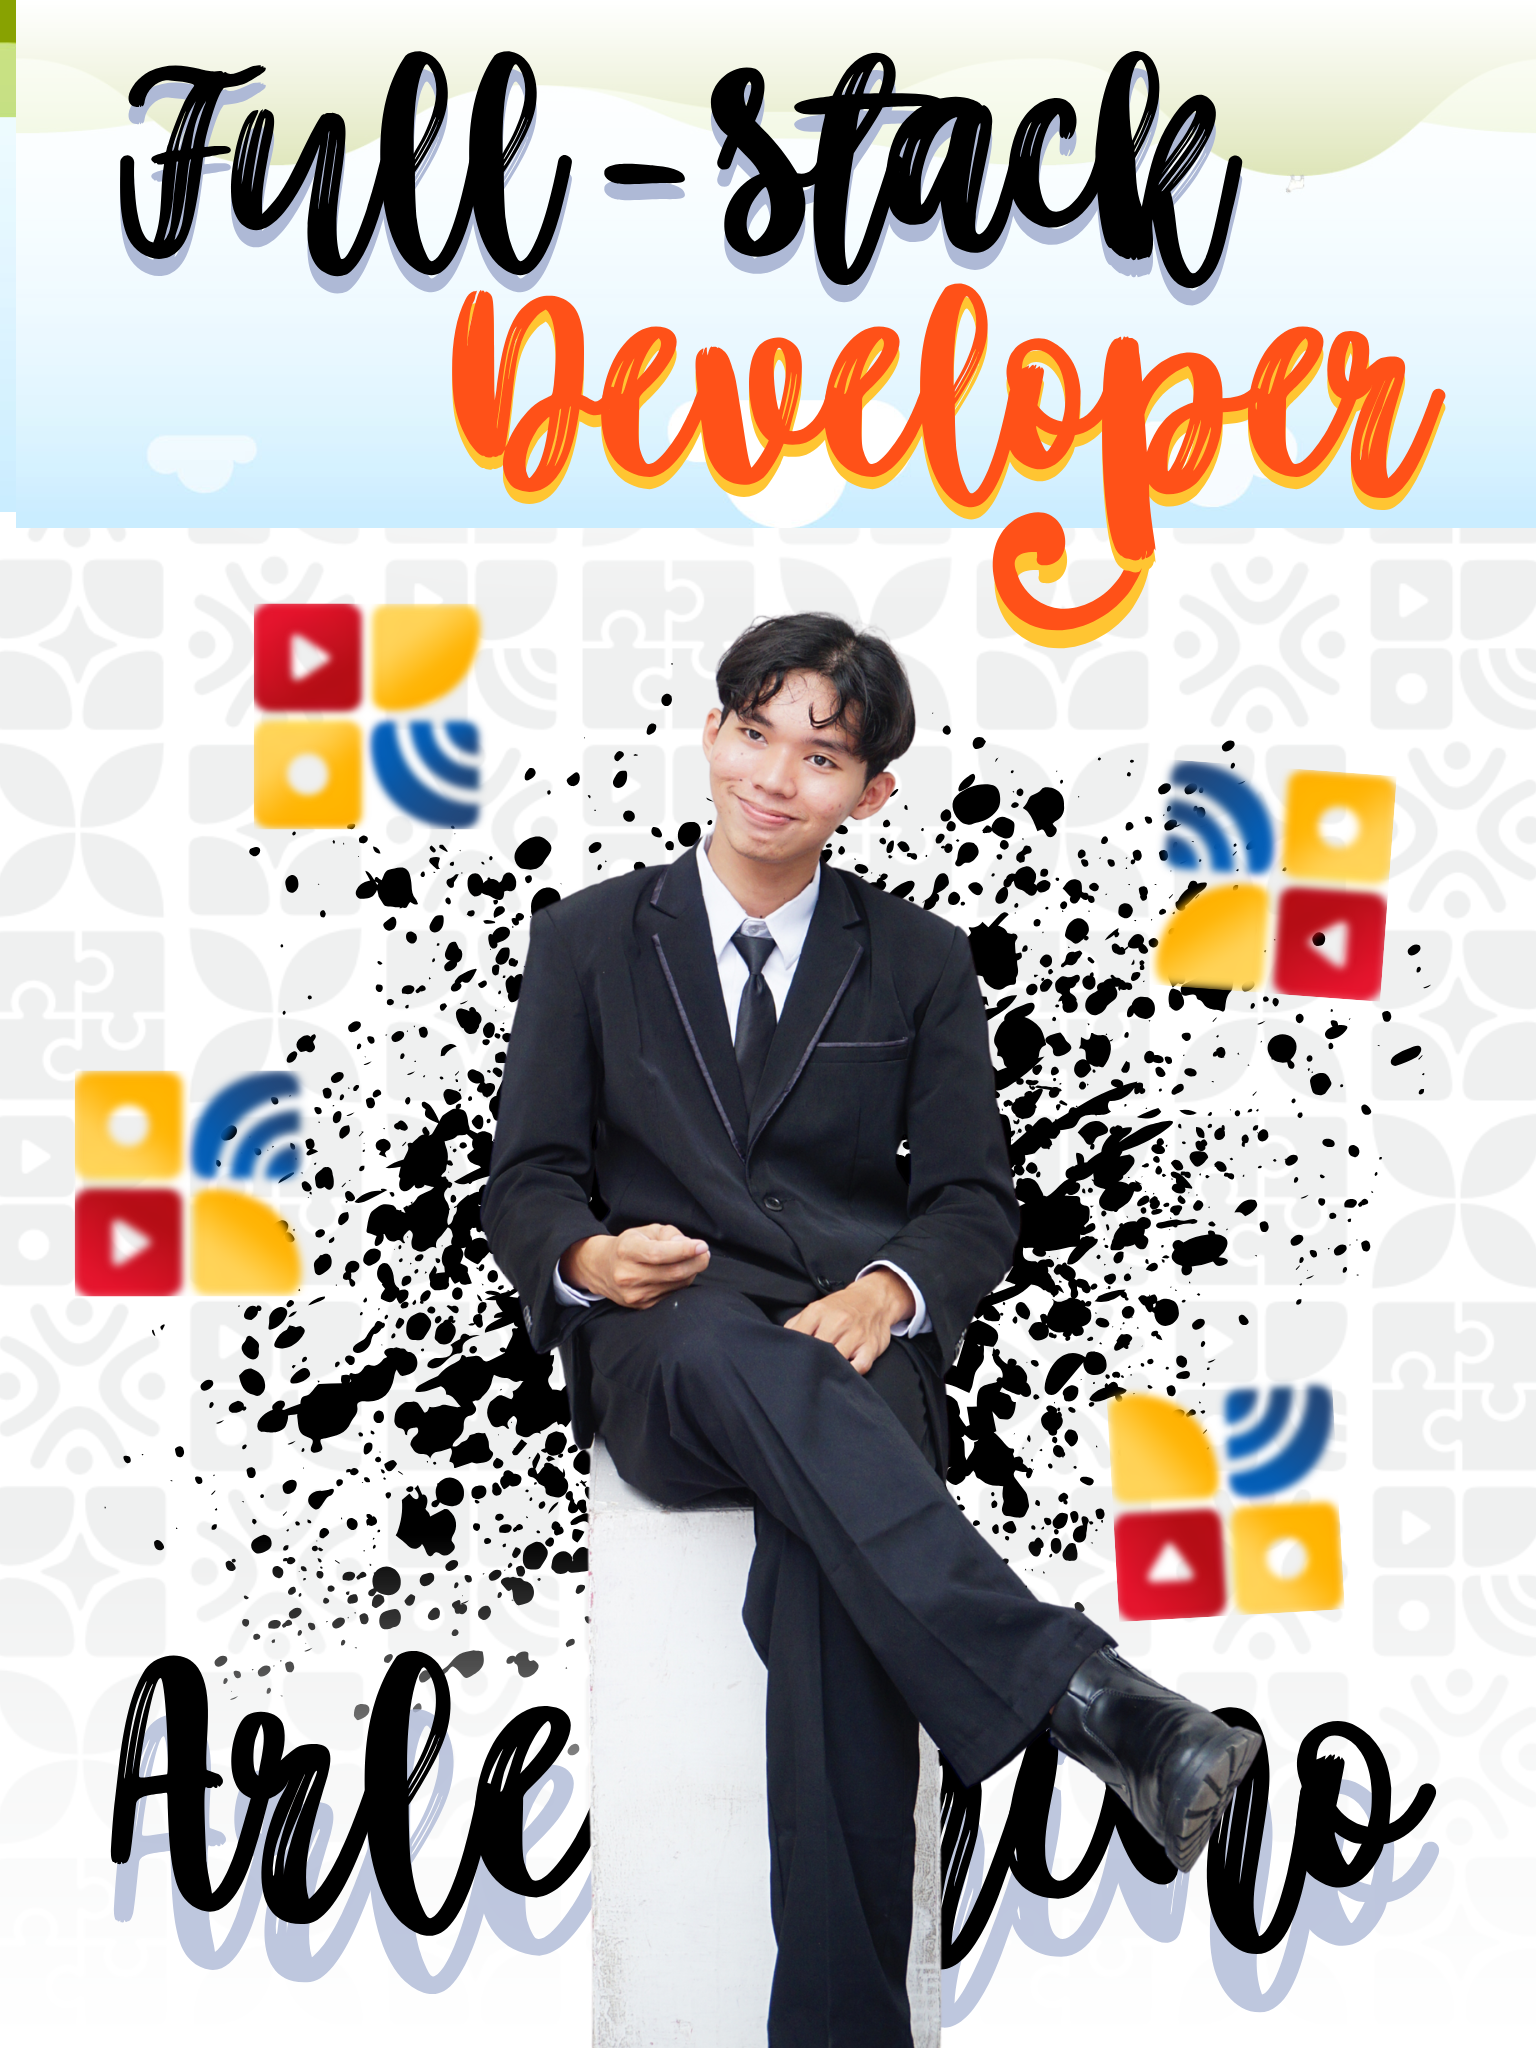
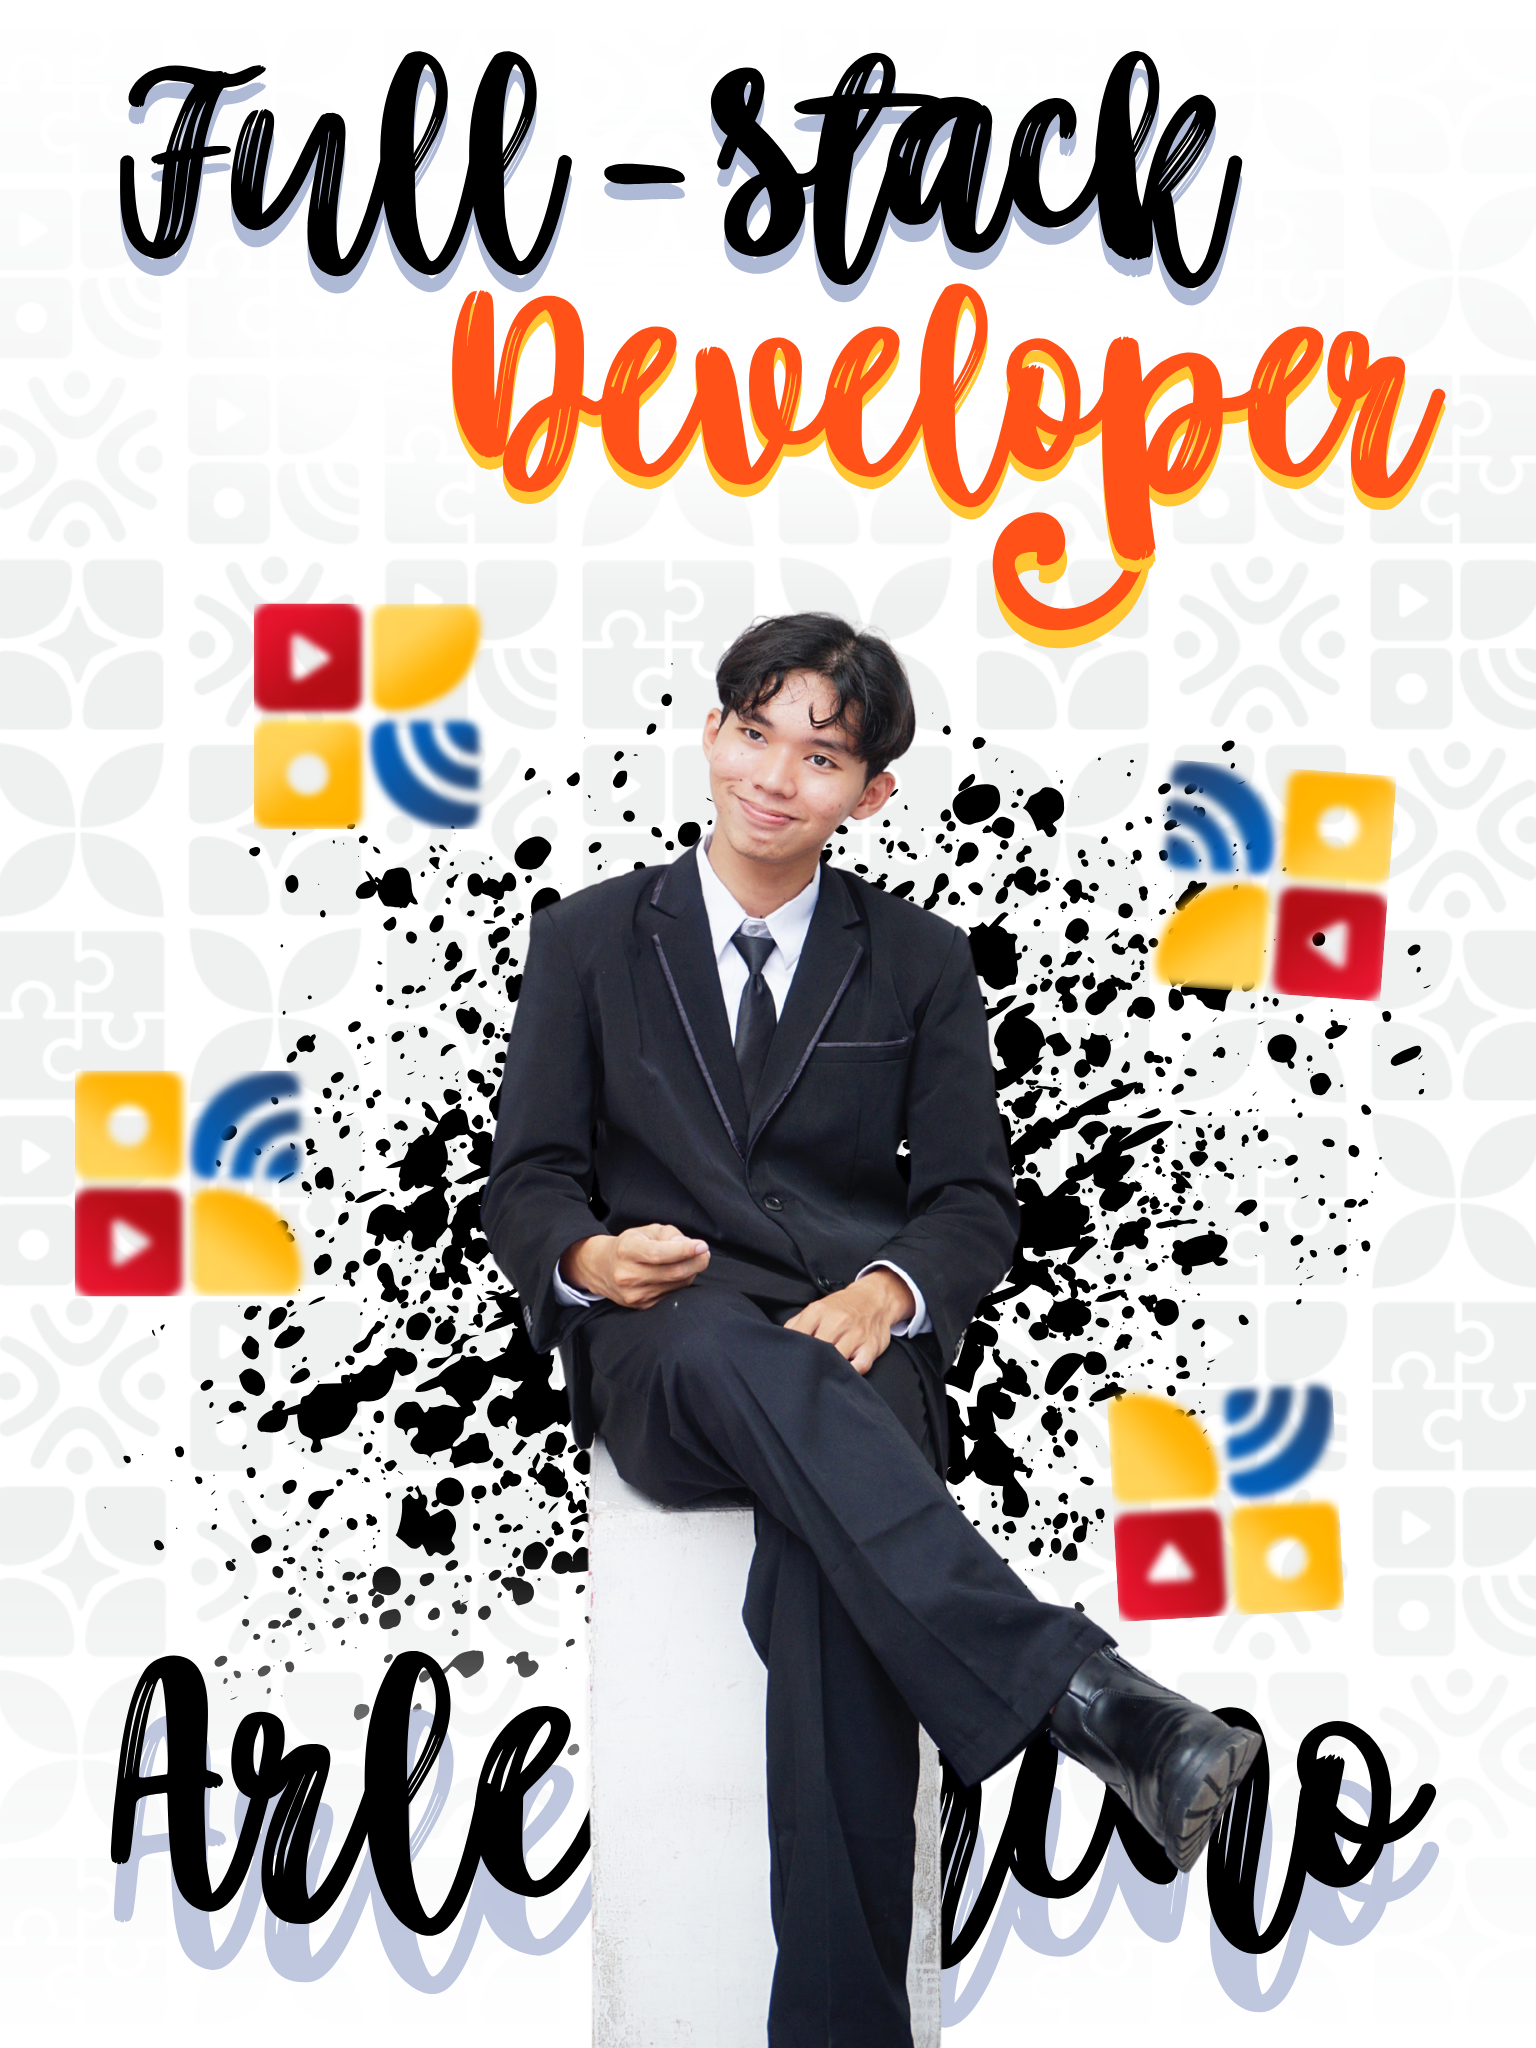
TES

diff --git a/style.css b/style.css
@@ -679,3 +679,114 @@ input:checked + .slider:before { transform: translateX(26px); }
         font-size: 2.5rem;
     }
 }
+
+/* --- SNEAK PEEK SECTION (Infinite Scroll) --- */
+.sneak-peek-section {
+    padding: 80px 0;
+    overflow: hidden; /* Sembunyikan scrollbar horizontal */
+    background-color: var(--bg-color);
+}
+
+.sneak-peek-section h2 {
+    font-size: 2.5rem;
+    margin-bottom: 10px;
+}
+
+.marquee-container {
+    width: 100%;
+    overflow: hidden;
+    position: relative;
+    padding: 20px 0;
+}
+
+/* Track panjang yang bergerak */
+.marquee-track {
+    display: flex;
+    gap: 20px; /* Jarak antar gambar */
+    width: max-content;
+    animation: scroll 20s linear infinite; /* Kecepatan scroll */
+}
+
+/* Animasi Loop */
+@keyframes scroll {
+    0% { transform: translateX(0); }
+    100% { transform: translateX(-50%); } /* Geser setengah panjang track */
+}
+
+/* Pause saat di-hover user */
+.marquee-track:hover {
+    animation-play-state: paused;
+}
+
+/* Styling Gambar Sneak Peek */
+.peek-img {
+    height: 250px; /* Tinggi seragam */
+    width: auto;
+    border-radius: 12px;
+    object-fit: cover;
+    cursor: pointer;
+    transition: transform 0.3s ease, filter 0.3s ease;
+    box-shadow: 0 4px 10px rgba(0,0,0,0.1);
+}
+
+.peek-img:hover {
+    transform: scale(1.05);
+    filter: brightness(1.1);
+    box-shadow: 0 10px 20px rgba(0,0,0,0.15);
+}
+
+/* --- IMAGE VIEWER MODAL (Lightbox) --- */
+.image-viewer-modal {
+    display: none; /* Hidden by default */
+    position: fixed;
+    z-index: 2000; /* Di atas segalanya */
+    padding-top: 50px;
+    left: 0;
+    top: 0;
+    width: 100%;
+    height: 100%;
+    overflow: auto;
+    background-color: rgba(13, 27, 66, 0.95); /* Dark Blue overlay */
+    backdrop-filter: blur(5px);
+}
+
+.viewer-content {
+    margin: auto;
+    display: block;
+    width: 80%;
+    max-width: 900px;
+    max-height: 80vh;
+    object-fit: contain;
+    border-radius: 8px;
+    animation: zoomIn 0.3s;
+    box-shadow: 0 0 30px rgba(0,0,0,0.5);
+}
+
+@keyframes zoomIn {
+    from {transform:scale(0)} 
+    to {transform:scale(1)}
+}
+
+.close-viewer {
+    position: absolute;
+    top: 30px;
+    right: 35px;
+    color: #f1f1f1;
+    font-size: 40px;
+    font-weight: bold;
+    transition: 0.3s;
+    cursor: pointer;
+}
+
+.close-viewer:hover,
+.close-viewer:focus {
+    color: var(--accent-color);
+    text-decoration: none;
+    cursor: pointer;
+}
+
+/* Responsif untuk Mobile */
+@media (max-width: 768px) {
+    .peek-img { height: 180px; }
+    .viewer-content { width: 95%; }
+}

diff --git a/script.js b/script.js
@@ -57,16 +57,23 @@ document.addEventListener('DOMContentLoaded', () => {
         }, 300);
     }
 
-    // --- 2. Time & Location Logic ---
+    // --- 2. Time & Location Logic (UPDATED: AM/PM) ---
     function updateTime() {
         const timeDisplay = document.getElementById('liveTime');
         const now = new Date();
-        // Format waktu: Jam:Menit (ex: 14:05)
-        const timeString = now.toLocaleTimeString('id-ID', { hour: '2-digit', minute: '2-digit' });
+        
+        // Format waktu: Jam:Menit AM/PM
+        // Menggunakan 'en-US' agar format defaultnya 12-hour (AM/PM)
+        const timeString = now.toLocaleTimeString('en-US', { 
+            hour: '2-digit', 
+            minute: '2-digit',
+            hour12: true 
+        });
+        
         timeDisplay.textContent = timeString;
     }
-    setInterval(updateTime, 1000); // Update tiap detik
-    updateTime(); // Run immediately
+    setInterval(updateTime, 1000); 
+    updateTime();
 
     // --- 3. Works Section Data & New Modal Layout ---
     
@@ -152,4 +159,32 @@ document.addEventListener('DOMContentLoaded', () => {
     window.addEventListener('click', (e) => {
         if (e.target == modal) closeProjectModal();
     });
+// --- 4. Sneak Peek Image Viewer Logic ---
+    const viewerModal = document.getElementById('imageViewer');
+    const viewerImg = document.getElementById("img01");
+    const peekImages = document.querySelectorAll('.peek-img');
+    const closeViewer = document.querySelector('.close-viewer');
+
+    // Tambahkan event click ke setiap gambar di marquee
+    peekImages.forEach(img => {
+        img.addEventListener('click', function() {
+            viewerModal.style.display = "flex"; // Gunakan flex biar center vertikal
+            viewerModal.style.alignItems = "center";
+            viewerModal.style.justifyContent = "center";
+            viewerImg.src = this.src; // Ambil source gambar yang diklik
+        });
+    });
+
+    // Tutup Viewer
+    closeViewer.onclick = function() { 
+        viewerModal.style.display = "none"; 
+    }
+
+    // Tutup jika klik area kosong (overlay)
+    viewerModal.onclick = function(e) {
+        if(e.target === viewerModal) {
+            viewerModal.style.display = "none";
+        }
+    }
+
 });

diff --git a/index.html b/index.html
@@ -116,6 +116,35 @@
         </div>
     </div>
 
+<section class="sneak-peek-section">
+        <div class="text-center mb-5">
+            <h2>Sneak Peek of My Works</h2>
+            <p class="subtitle">A curated collection of my visual explorations.</p>
+        </div>
+
+        <div class="marquee-container">
+            <div class="marquee-track">
+                <img src="assets/design/konekin.png" class="peek-img" alt="Design Work 1">
+                <img src="assets/design/girl.png" class="peek-img" alt="Design Work 2">
+                <img src="assets/design/rep.png" class="peek-img" alt="Design Work 3">
+                <img src="assets/works/knu.jpg" class="peek-img" alt="Design Work 4">
+                <img src="assets/images/develop.png" class="peek-img" alt="Design Work 5">
+                
+                <img src="assets/images/graphic.jpg" class="peek-img" alt="Design Work 1">
+                <img src="assets/works/knu.jpeg" class="peek-img" alt="Design Work 2">
+                <img src="assets/images/graphic.jpg" class="peek-img" alt="Design Work 3">
+                <img src="assets/works/knu.jpg" class="peek-img" alt="Design Work 4">
+                <img src="assets/images/graphic.png" class="peek-img" alt="Design Work 5">
+            </div>
+        </div>
+    </section>
+
+    <div id="imageViewer" class="image-viewer-modal">
+        <span class="close-viewer">&times;</span>
+        <img class="viewer-content" id="img01">
+        <div id="caption"></div>
+    </div>
+
     <footer id="contact">
         <div class="footer-content text-center">
             <h2>Let's Create Together</h2>
